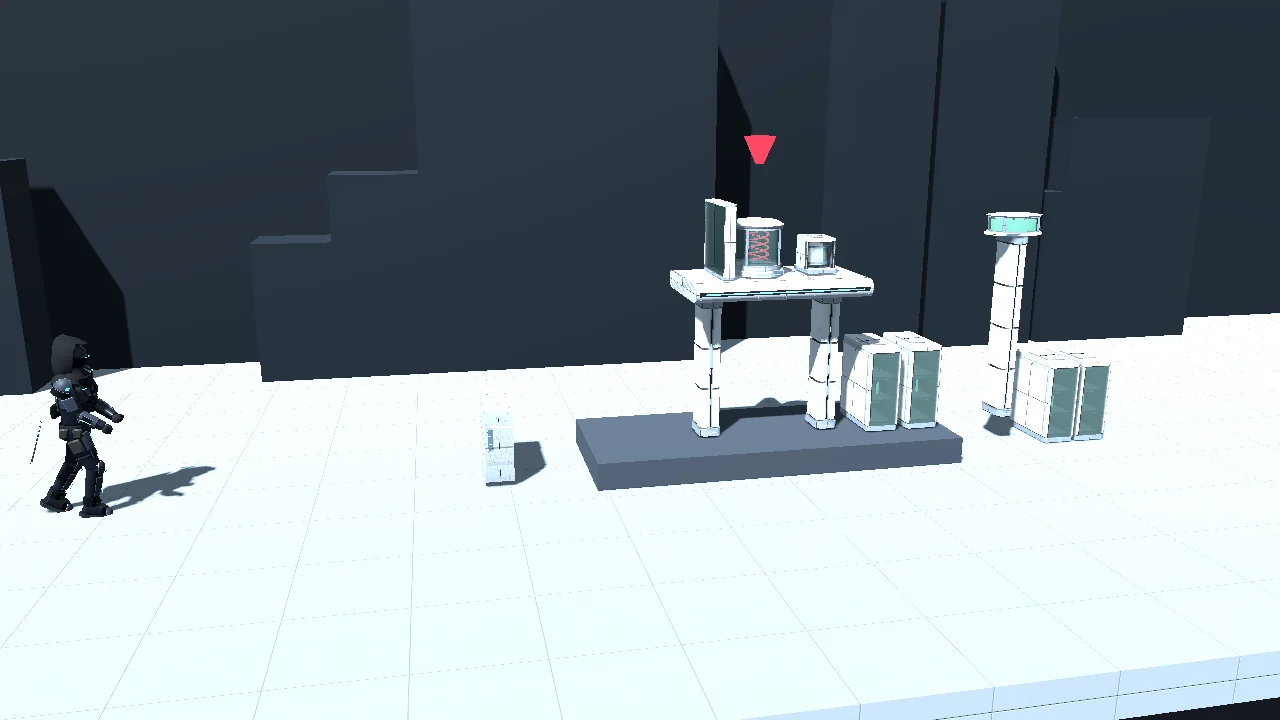
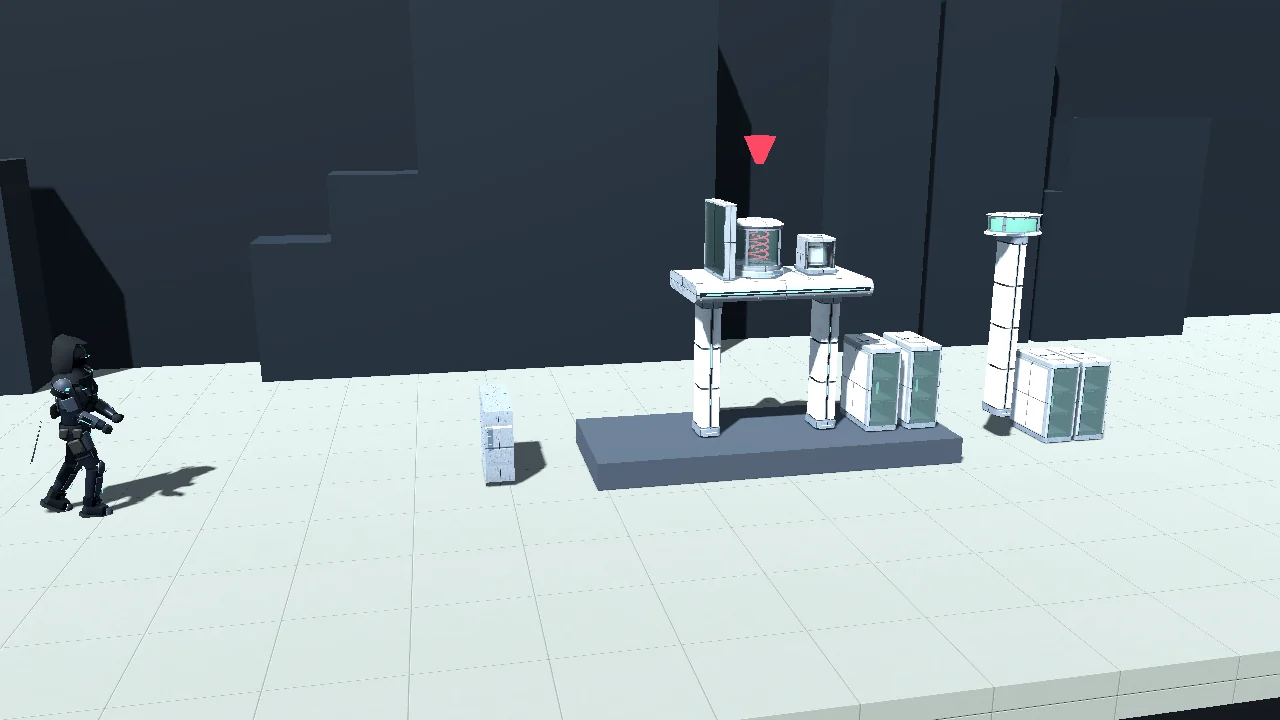
assets: VITA revision 4 materials fix washout under the game light (harness clipping 29.1% to 1.5%), impact composite 02 to 04 loudness metadata matches measured files

diff --git a/generated_assets/tools/tone_albedo.py b/generated_assets/tools/tone_albedo.py
@@ -1,0 +1,50 @@
+#!/usr/bin/env python3
+"""Tone albedo textures in linear light (integration stream, 2026-11-10; used for VITA revision 4).
+
+    out = k * tint * (mean + c * (x - mean))      per pixel, in linear light, alpha kept
+
+k darkens, c > 1 lifts panel detail around the texture mean, tint (optional RGB) offsets a colour cast.
+Usage:
+    python3 generated_assets/tools/tone_albedo.py SRC_DIR DST_DIR PREFIX PARAMS_JSON
+VITA revision 4 (sources are the revision 3 files at commit 191dc77):
+    mkdir -p /tmp/vita_r3 && for n in floor composite reinforced_steel lightweight_alloy concrete \
+      electronic_module ai_core_module energy_component; do f=vta_mat_${n}_a_albedo.png; \
+      git show 191dc77:generated_assets/materials/vita/$f > /tmp/vita_r3/$f; done
+    python3 generated_assets/tools/tone_albedo.py /tmp/vita_r3 generated_assets/materials/vita vta_mat_ \
+      "$(cat generated_assets/tools/vita_tone_rev4.json)"
+"""
+import json, sys
+import numpy as np
+from PIL import Image
+
+
+def to_lin(v):
+    v = v / 255.0
+    return np.where(v <= 0.04045, v / 12.92, ((v + 0.055) / 1.055) ** 2.4)
+
+
+def to_srgb(lin):
+    lin = np.clip(lin, 0, 1)
+    return np.where(lin <= 0.0031308, lin * 12.92, 1.055 * lin ** (1 / 2.4) - 0.055) * 255.0
+
+
+def main() -> None:
+    src, dst, prefix, params = sys.argv[1], sys.argv[2], sys.argv[3], json.loads(sys.argv[4])
+    for name, spec in params.items():
+        k, c = spec[0], spec[1]
+        tint = np.array(spec[2] if len(spec) > 2 else [1.0, 1.0, 1.0])
+        f = f"{prefix}{name}_a_albedo.png"
+        im = Image.open(f"{src}/{f}")
+        mode = im.mode
+        a = np.asarray(im.convert("RGBA")).astype(float)
+        lin = to_lin(a[..., :3])
+        mean = lin.reshape(-1, 3).mean(0)
+        out = k * tint * (mean + c * (lin - mean))
+        rgb = np.round(to_srgb(out)).astype(np.uint8)
+        res = np.dstack([rgb, a[..., 3].astype(np.uint8)])
+        Image.fromarray(res, "RGBA").convert(mode).save(f"{dst}/{f}", optimize=True)
+        print(f, "mean sRGB", [round(x) for x in rgb.reshape(-1, 3).mean(0)])
+
+
+if __name__ == "__main__":
+    main()

diff --git a/generated_assets/environments/PRODUCTION_NOTES.md b/generated_assets/environments/PRODUCTION_NOTES.md
@@ -194,3 +194,25 @@ The 21 Helix environment pieces were rebuilt in place with the same ids.
 - VITA: VTA-ENV-BACK_WALL-A is lab glazing (clean white body, a projecting rounded bay window with a deep reveal and slim transom, a lit lab bench, sample columns and a monitor behind the glass), 1,272 tris. VTA-ENV-BACK_WALL-B is a dome bay (projecting round-arched glazing with radial mullions, a growth dome on a lit plinth inside; the inner dome is a shallow relief to fit the 0.6 m wall depth), 1,038 tris. VTA-ENV-MASSING_BLOCK-A is a lab pavilion with a large and a small ribbed glass dome (1,792 tris); VTA-ENV-MASSING_TOWER-B is a research tower with an observation drum and dome cap (854 tris). Showcase back band: alternating glazing and dome bays, the growth chamber landmark, pavilion and towers behind; soft green and white lights, clean pale grade.
 - Verification (VITA): Godot lineup, environments 21 of 21 and destructibles 34 of 34 load with COLOR_0; showcase frames and kit_scene test frame re-rendered.
 - Limits of this pass: the new walls and massing use the existing material library and bake (no sculpted detail); emission strengths are unchanged (accent presence comes from more and larger emissive elements plus showcase lights); the chapter grades are presentation only and apply to the graded frame, not to the game.
+
+## VITA revision 4: washout fix under the game light (integration stream, 2026-11-10)
+- Problem: under the MissionView light (sun 1.15, ambient 0.55, Filmic) the VITA floor and white panels clipped. `docs/previews/harness_mission_vita.webp` had 29.1% of the frame and 71.7% of the floor band at L 250 or above, so the tiles, seams and panel detail were lost.
+- Fix: materials and textures only. Exposure, lights and the environment in code are unchanged, and so is the harness.
+  - The eight VITA albedo textures were toned in linear light by `tools/tone_albedo.py` with the parameters in `tools/vita_tone_rev4.json`: out = k * tint * (mean + c * (x - mean)). k darkens; c above 1 restores panel detail around the mean.
+  - The floor (k 0.65, warm tint 1.24 / 1.09 / 0.85) cancels the blue cast that clipped the blue channel first. Its sRGB mean is now 141 / 138 / 126 (was 156 / 162 / 165) and it renders at about 194 / 206 / 204: off-white with a mint hint, with the tile seams visible.
+  - The panels: composite k 0.64 c 1.5, reinforced steel 0.72 / 1.4, lightweight alloy 0.75 / 1.4, concrete 0.66 / 1.3, electronic module 0.72 / 1.4, AI core module 0.7 / 1.3, energy component 0.8 / 1.3. Glass polymer, ORM, normal and emission maps are unchanged.
+  - `vta_env_floor_tile_a.glb`, `vta_env_floor_tile_b.glb` and `vta_env_floor_trench_a.glb`: `mat_composite_vta` baseColorFactor scaled by 0.75 in the glb JSON only (geometry, UVs and COLOR_0 untouched). The Blender source still has the old factor, so a kit rebuild must carry this over. Scaling the destructible factors made no measurable difference and was reverted.
+- Result (L 250 or above, share of frame), before and after:
+  - harness_mission_vita: 29.1% to 1.5% (floor band 71.7% to 0.3%)
+  - harness_mission_vita_bg1 to bg4: 49.0% to 1.7%
+  - harness_mission_vita_proposed_env: 42.9% to 1.7%
+  - harness_states_vita: 30.1% to 0.2%; harness_kit_vita: 21.6% to 1.2%; harness_materials_vita: 13.1% to 0.7%; harness_props_vita: 2.6% to 0.0%
+  - vta_showcase_missionview: 4.0% to 2.7%; vta_showcase_graded: 9.3% to 5.4%; vta_showcase_close: 13.7% to 9.8% (what still clips is component tops under the graded spot light); vta_godot_test_frame: 2.1% to 1.6%
+- The other chapters render the same. The Helix harness previews were re-encoded and came out byte-identical to the committed files. Nova Grid, Civitas and Meridian differ from the committed files in at most 508 of 921,600 pixels (WebP and software-renderer noise), which is under the 0.1% churn threshold in `integration_cycle.sh`. In git, no non-VITA preview changed.
+- Showcase re-render: the four VITA showcase frames were re-rendered with showcase.gd and kit_scene.gd. The parameters for the close framing (zoom 0.5, focus 4.1 / 1.25 / 0.0) and for the test-frame component list were not recorded in the earlier pass, so they were reconstructed to match the committed frames. `vta_environment_sheet.webp` (Cycles) and the material tile previews were not regenerated and still show revision 3.
+- Reproduce:
+  ```
+  mkdir -p /tmp/vita_r3 && for n in floor composite reinforced_steel lightweight_alloy concrete electronic_module ai_core_module energy_component; do f=vta_mat_${n}_a_albedo.png; git show 191dc77:generated_assets/materials/vita/$f > /tmp/vita_r3/$f; done
+  python3 generated_assets/tools/tone_albedo.py /tmp/vita_r3 generated_assets/materials/vita vta_mat_ "$(cat generated_assets/tools/vita_tone_rev4.json)"
+  ```
+  This reproduces the committed textures byte for byte.

diff --git a/generated_assets/audio/QC_REPORT.md b/generated_assets/audio/QC_REPORT.md
@@ -23,6 +23,8 @@ PASS: structure, ids, paths and deep file checks valid
 
 The 3 warnings: SHR-SFX-IMPACT_COMPOSITE-02, -03, -04 measure 1.2 dB louder in ffmpeg ebur128 than the recorded value (short 1 s clips with silence gating; the in-house BS.1770 meter and ffmpeg gate the final block differently). Music and ambience match exactly.
 
+Update (integration stream, 2026-11-10): the recorded `loudness_lufs` of SHR-SFX-IMPACT_COMPOSITE-02, -03 and -04 is now the ffmpeg ebur128 value (-22.0, -22.3 and -21.7 LUFS; was -23.17, -23.54 and -22.87), so the validator no longer warns. The audio files are unchanged.
+
 ## Godot 4.7.2 import and load (temp copy of the clone, /tmp/tfj-audio-godot/project)
 
 ```
